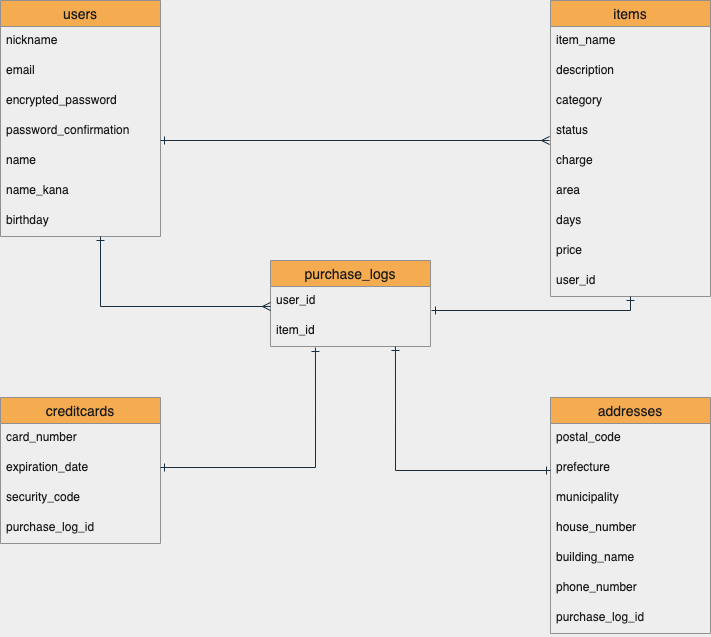
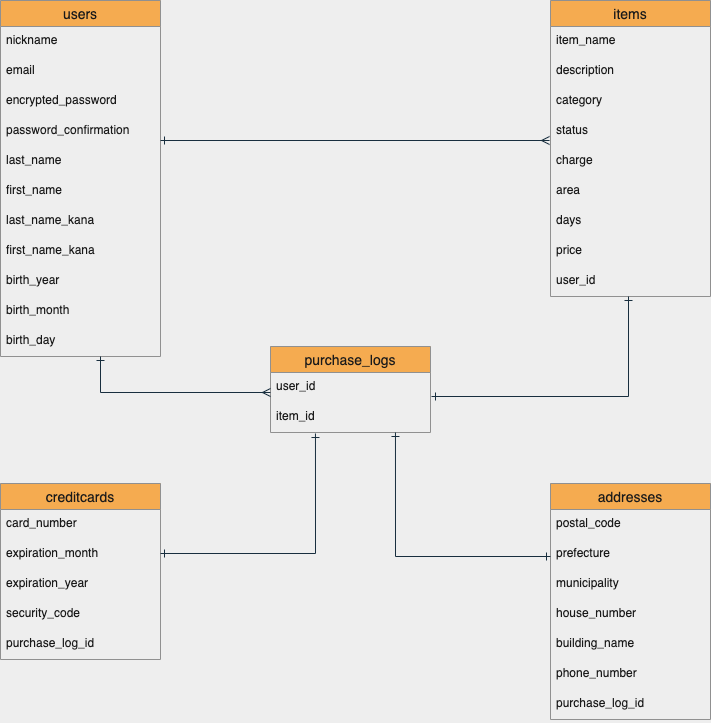
DB設計ver1

diff --git a/README.md b/README.md
@@ -1,24 +1,87 @@
 # README
 
-This README would normally document whatever steps are necessary to get the
-application up and running.
+# テーブル設計
 
-Things you may want to cover:
+## usersテーブル
 
-* Ruby version
+| Column | Type | Option |
+| ------ | ---- | ------ |
+| nickname | string | null: false |
+| email | string | null: false |
+| encrypted_password | string | null: false |
+| password_confirmation | string | null: false |
+| last_name | string | null: false |
+| first_name | string | null: false |
+| last_name_kana | string | null: false |
+| first_name_kana | string | null: false |
+| birth_year | integer | null: false |
+| birth_month | integer | null: false |
+| birth_day | integer | null: false |
 
-* System dependencies
+### Association
 
-* Configuration
+- has_many :items
+- has_many :purchase_logs
 
-* Database creation
+## itemsテーブル
 
-* Database initialization
+| Column | Type | Option |
+| ------ | ---- | ------ |
+| item_name | string | null: false |
+| description | text | null: false |
+| category | string | null: false |
+| status | string | null: false |
+| charge | string | null: false |
+| area | string | null: false |
+| days | string | null: false |
+| price | integer | null: false |
+| user_id | references | null: false, foreign_key: true |
 
-* How to run the test suite
+### Association
 
-* Services (job queues, cache servers, search engines, etc.)
+- belongs_to :user
+- has_one :purchase_log
 
-* Deployment instructions
+## purchase_logsテーブル
 
-* ...
+| Column | Type | Option |
+| ------ | ---- | ------ |
+| user_id | references | null: false, foreign_key: true |
+| item_id | references | null: false, foreign_key: true |
+
+### Association
+
+- belongs_to :user
+- belongs_to :item
+- has_one :address
+- has_one :creditcard
+
+## addressesテーブル
+
+| Column | Type | Option |
+| ------ | ---- | ------ |
+| postal_code | string | null: false |
+| prefecture | string | null: false |
+| municipality | string | null: false |
+| house_number | string | null: false |
+| building_name | string |  |
+| phone_number | string | null: false |
+| purchase_log_id | references | null: false, foreign_key: true |
+
+### Association
+
+- belongs_to :purchase_log
+
+## creditcardテーブル
+
+| Column | Type | Option |
+| ------ | ---- | ------ |
+| card_number | string | null: false |
+| expiration_month | integer | null: false |
+| expiration_year | integer | null: false |
+| security_code | integer | null: false |
+| purchase_log_id | references | null: false, foreign_key: true |
+
+### Association 
+
+- belongs_to :purchase_log
